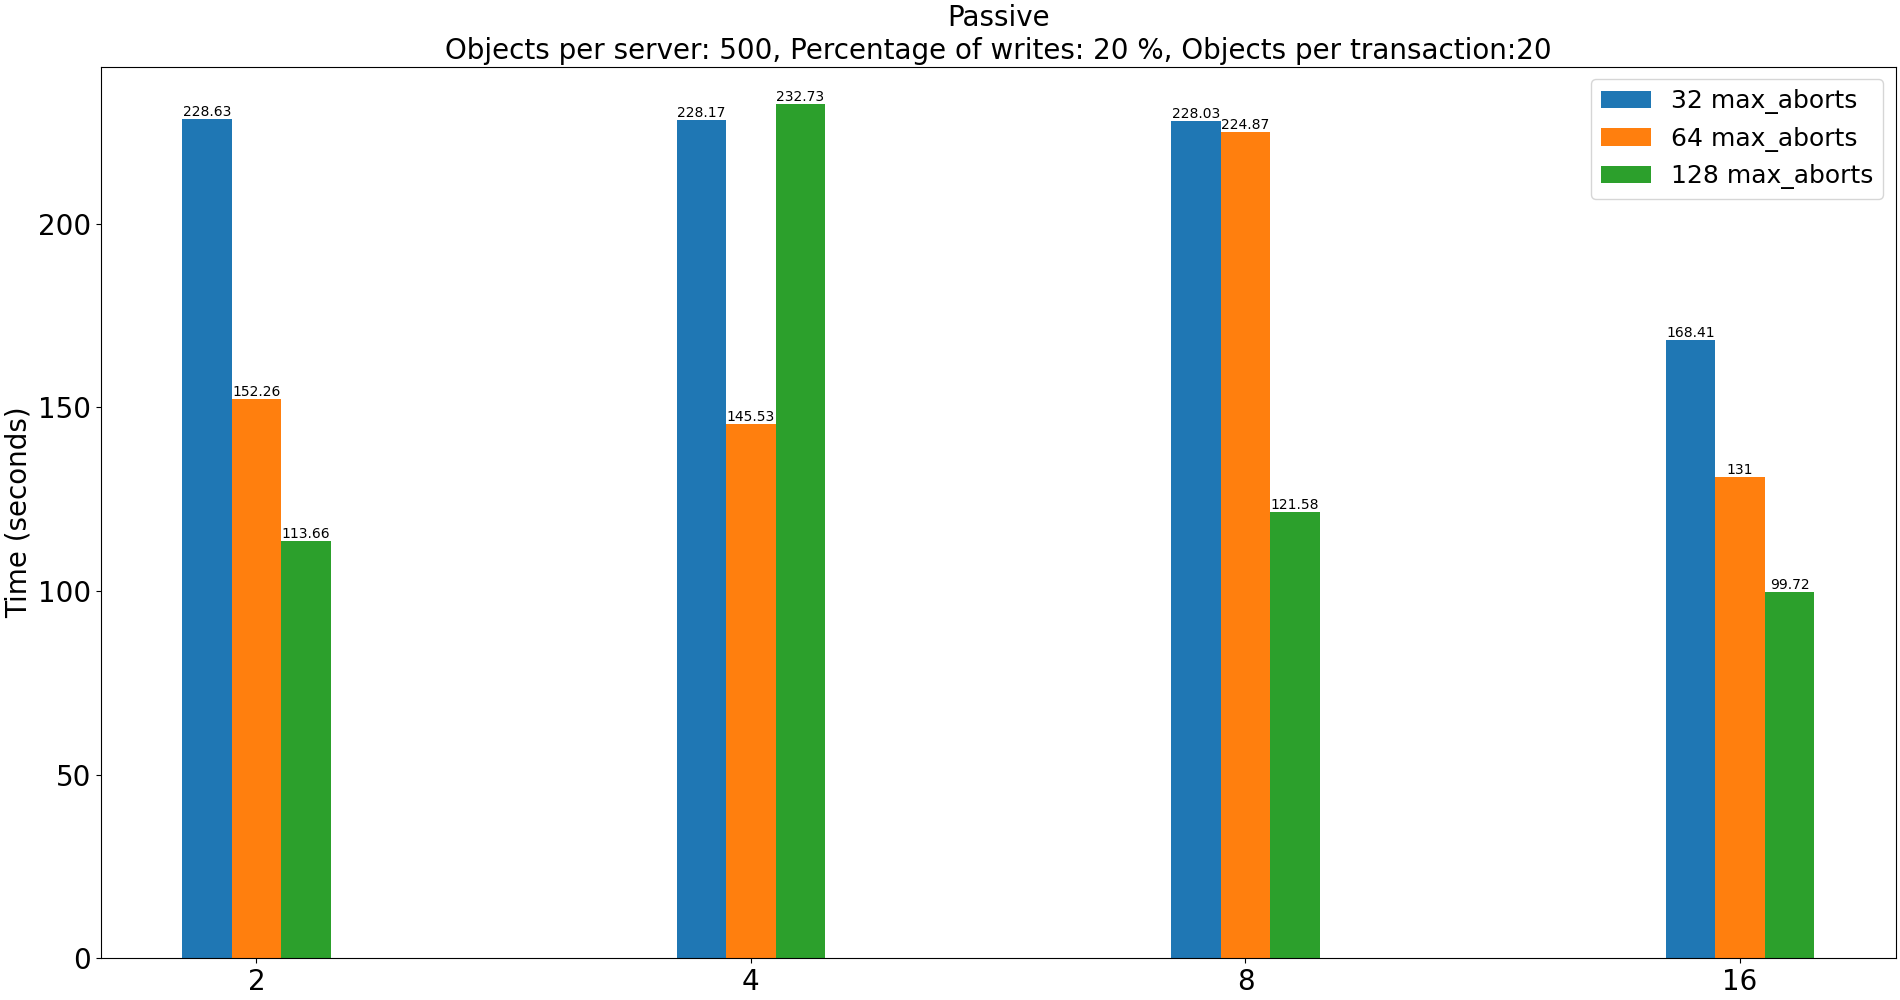
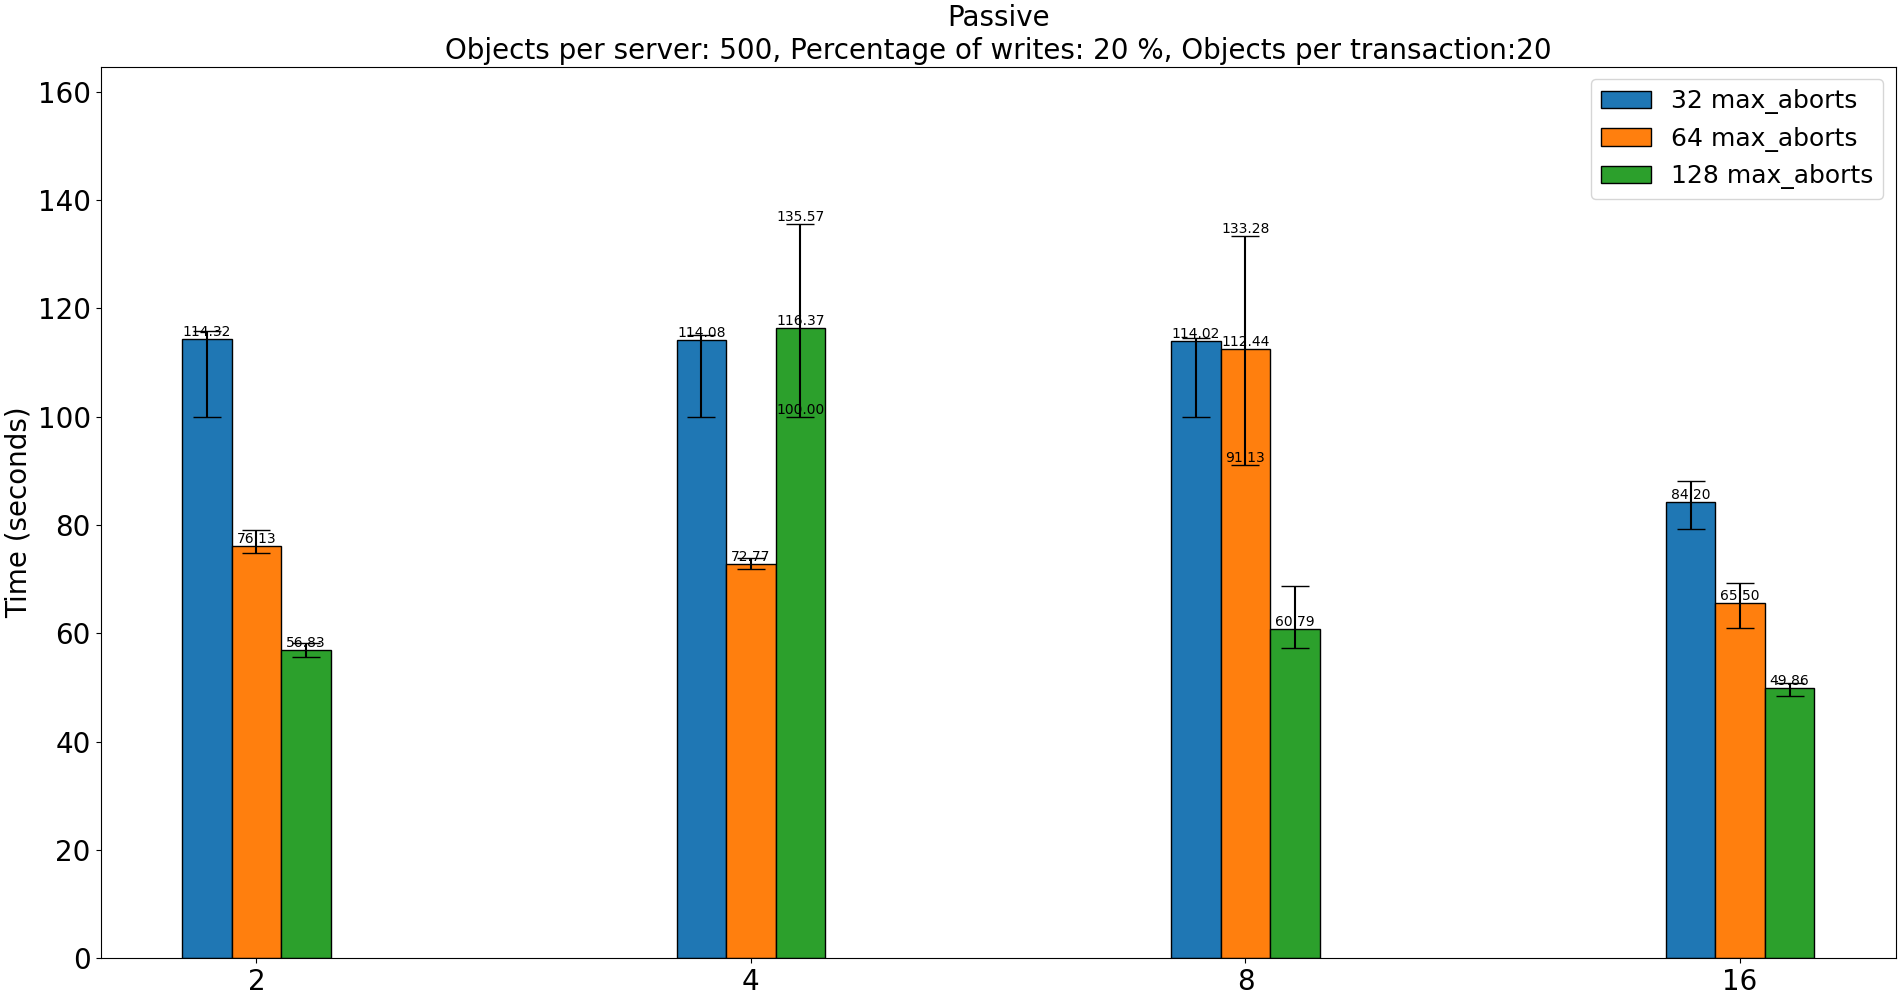
Improved the plot generation code: fixed the number of tests used to calculated the average time of execution, which was wrongfully set to 5 instead of 10; added lots of new variables and fields to exhibit lower and upper bounds and error bars on the plots; added edge color for the plots; regenerate

diff --git a/GenericBranchdDynamicParamsTests/generate_plots_cms_params.py b/GenericBranchdDynamicParamsTests/generate_plots_cms_params.py
@@ -55,6 +55,7 @@ writes_percentage = [20, 50]
 objs_per_transaction = [5, 20] #[5, 10]
 objs_per_server = [100, 500]
 number_of_clients = [2, 4, 8, 16]
+number_of_tests = 10
 test_cases_dict = {}
 
 print(cm_params_configs)
@@ -137,7 +138,7 @@ for wp in writes_percentage:
     for opt in objs_per_transaction:
         for ops in objs_per_server:
             test_cases_avgs_dict[f"NOBJSERVER: {ops}, WRITES: {wp}, NOBJTRANS:{opt}"] = {
-                    cpc: {noc: [] for noc in number_of_clients} for cpc in cm_params_configs
+                    cpc: {noc: {"avg": 0, "max_error": 0} for noc in number_of_clients} for cpc in cm_params_configs
             }
 
 for wp in writes_percentage:
@@ -146,14 +147,32 @@ for wp in writes_percentage:
             for cpc in cm_params_configs:
                 for noc in number_of_clients:
                     avg = 0
-                    for test in range(10):
+                    min_value = 99999
+                    max_value = -1
+                    for test in range(number_of_tests):
                         avg += test_cases_dict[f"NOBJSERVER: {ops}, WRITES: {wp}, NOBJTRANS:{opt}"][cpc][noc][test]
-                    avg /= 5*1000
-                    test_cases_avgs_dict[f"NOBJSERVER: {ops}, WRITES: {wp}, NOBJTRANS:{opt}"][cpc][noc] = round(avg, 2)
+                        max_value = max(max_value, test_cases_dict[f"NOBJSERVER: {ops}, WRITES: {wp}, NOBJTRANS:{opt}"][cpc][noc][test])
+                        min_value = min(min_value, test_cases_dict[f"NOBJSERVER: {ops}, WRITES: {wp}, NOBJTRANS:{opt}"][cpc][noc][test])
+                    avg /= number_of_tests * 1000
+                    min_value /= 1000
+                    max_value /= 1000
+                    max_error = (max_value - min_value)
+                    test_cases_avgs_dict[f"NOBJSERVER: {ops}, WRITES: {wp}, NOBJTRANS:{opt}"][cpc][noc]["avg"] = round(avg, 2)
+                    test_cases_avgs_dict[f"NOBJSERVER: {ops}, WRITES: {wp}, NOBJTRANS:{opt}"][cpc][noc]["min"] = round(min_value, 2)
+                    test_cases_avgs_dict[f"NOBJSERVER: {ops}, WRITES: {wp}, NOBJTRANS:{opt}"][cpc][noc]["max"] = round(max_value, 2)
+                    test_cases_avgs_dict[f"NOBJSERVER: {ops}, WRITES: {wp}, NOBJTRANS:{opt}"][cpc][noc]["lower_bound"] = round(avg - min_value, 2)
+                    test_cases_avgs_dict[f"NOBJSERVER: {ops}, WRITES: {wp}, NOBJTRANS:{opt}"][cpc][noc]["upper_bound"] = round(max_value - avg, 2)
+                    test_cases_avgs_dict[f"NOBJSERVER: {ops}, WRITES: {wp}, NOBJTRANS:{opt}"][cpc][noc]["max_error"] = round(max_error, 2)
 
+print("AVERAGES:")
 print(test_cases_avgs_dict)
 
 counts = [[] for i in range(8)]
+mins = [[] for i in range(8)]
+maxs = [[] for i in range(8)]
+lowers = [[] for i in range(8)]
+uppers = [[] for i in range(8)]
+errors = [[] for i in range(8)]
 
 print(counts)
 
@@ -164,11 +183,26 @@ for wp in writes_percentage:
             for cpc in cm_params_configs:
                 j = 0
                 count = []
+                min_value = []
+                max_value = []
+                lower_bound = []
+                upper_bound = []
+                error = []
                 for noc in number_of_clients:
-                    count.append(test_cases_avgs_dict[f"NOBJSERVER: {ops}, WRITES: {wp}, NOBJTRANS:{opt}"][cpc][noc])
+                    count.append(test_cases_avgs_dict[f"NOBJSERVER: {ops}, WRITES: {wp}, NOBJTRANS:{opt}"][cpc][noc]["avg"])
+                    min_value.append(test_cases_avgs_dict[f"NOBJSERVER: {ops}, WRITES: {wp}, NOBJTRANS:{opt}"][cpc][noc]["min"])
+                    max_value.append(test_cases_avgs_dict[f"NOBJSERVER: {ops}, WRITES: {wp}, NOBJTRANS:{opt}"][cpc][noc]["max"])
+                    lower_bound.append(test_cases_avgs_dict[f"NOBJSERVER: {ops}, WRITES: {wp}, NOBJTRANS:{opt}"][cpc][noc]["lower_bound"])
+                    upper_bound.append(test_cases_avgs_dict[f"NOBJSERVER: {ops}, WRITES: {wp}, NOBJTRANS:{opt}"][cpc][noc]["upper_bound"])
+                    error.append(test_cases_avgs_dict[f"NOBJSERVER: {ops}, WRITES: {wp}, NOBJTRANS:{opt}"][cpc][noc]["max_error"])
                     j += 1
                 print(count)
                 counts[i].append(count)
+                mins[i].append(min_value)
+                maxs[i].append(max_value)
+                lowers[i].append(lower_bound)
+                uppers[i].append(upper_bound)
+                errors[i].append(error)
             i+=1
 
 print(counts)
@@ -184,13 +218,23 @@ for wp in writes_percentage:
     for opt in objs_per_transaction:
         for ops in objs_per_server:
             avgs = {}
+            min_values = {}
+            max_values = {}
+            lower_bounds = {}
+            upper_bounds = {}
+            max_errors = {}
             j = 0
             max = 0
             for cpc in cm_params_configs:
                 print(counts[i][j])
-                local_max = np.array(counts[i][j]).max()
+                local_max = np.array(counts[i][j]).max() + np.array(errors[i][j]).max()
                 max = local_max if local_max > max else max  
                 avgs[cpc] = counts[i][j]
+                min_values[cpc] = mins[i][j]
+                max_values[cpc] = maxs[i][j]
+                lower_bounds[cpc] = lowers[i][j]
+                upper_bounds[cpc] = uppers[i][j]
+                max_errors[cpc] = errors[i][j]
                 j+=1
 
             x = np.arange(len(number_of_clients))  # the label locations
@@ -201,8 +245,32 @@ for wp in writes_percentage:
 
             for attribute, measurement in avgs.items():
                 offset = width * multiplier
-                rects = ax.bar(x + offset, measurement, width, label=attribute)
-                ax.bar_label(rects, padding=0)
+                #y_lower_bound = np.array(avgs[attribute]) - np.array(min_values[attribute])
+                #y_upper_bound =np.array(max_values[attribute]) - np.array(avgs[attribute])
+                error_bounds = [lower_bounds[attribute], upper_bounds[attribute]]
+
+
+                bars = ax.bar(x = x + offset, height = measurement, width = width, yerr = error_bounds, 
+                               capsize = 10, label = attribute, edgecolor = 'black')
+                for index, bar in enumerate(bars):
+                    height = bar.get_height()
+                    max_error = max_errors[attribute][index]
+                    lower_bound = lower_bounds[attribute][index]
+                    upper_bound = upper_bounds[attribute][index]
+
+                    ax.text(x = bar.get_x() + bar.get_width()/2, y = height, s = f'{height:.2f}', 
+                            horizontalalignment='center', verticalalignment='bottom')
+                    
+                    if lower_bound > max / 10:
+                        min_value = min_values[attribute][index]
+                        ax.text(x = bar.get_x() + bar.get_width()/2, y = min_value, s = f'{min_value:.2f}', 
+                            horizontalalignment='center', verticalalignment='bottom')
+                    
+                    if upper_bound > max / 10:
+                        max_value = max_values[attribute][index]
+                        ax.text(x = bar.get_x() + bar.get_width()/2, y = max_value, s = f'{max_value:.2f}', 
+                            horizontalalignment='center', verticalalignment='bottom')
+                #ax.bar_label(bars, padding=0)
                 multiplier += 1
 
             # Add some text for labels, title and custom x-axis tick labels, etc.
